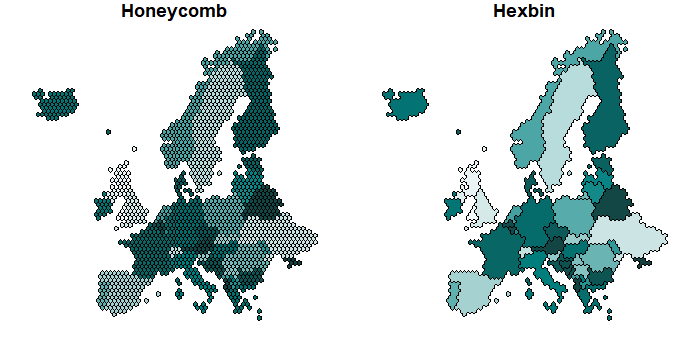
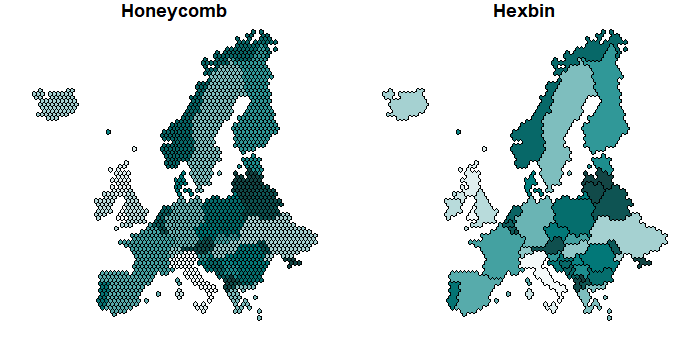
Drafting

diff --git a/_drafts/2019-05-30-Beautiful1.md b/_drafts/2019-05-30-Beautiful1.md
@@ -25,12 +25,12 @@ I also expanded it by grouping the grids and also producing dots over
 the geometries. So basically I produced 5 variations of the map:
 
 | Type          | Replacement | Grouped |
-| ------------- | :---------: | :------: |
-| **Fishnet**   |   Square    |      No |
-| **Puzzle**    |   Square    |     Yes |
-| **Honeycomb** |   Hexagon   |      No |
-| **Hexbin**    |   Hexagon   |     Yes |
-| **Pixel**     |     Dot     |      No |
+| ------------- | :---------: | :-----: |
+| **Fishnet**   |   Square    |   No    |
+| **Puzzle**    |   Square    |   Yes   |
+| **Honeycomb** |   Hexagon   |   No    |
+| **Hexbin**    |   Hexagon   |   Yes   |
+| **Pixel**     |     Dot     |   No    |
 
 ### Required R packages
 
@@ -124,8 +124,8 @@ Puzzle <- left_join(
 
 
 par(mfrow = c(1, 2), mar = c(1, 1, 1, 1))
-plot(st_geometry(Fishnet), col = mypal(nrow(Fishnet)), main = "Fishnet")
-plot(st_geometry(Puzzle), col = mypal(nrow(Fishnet)), main = "Puzzle")
+plot(st_geometry(Fishnet), col = mypal(nrow(Fishnet) / 2), main = "Fishnet")
+plot(st_geometry(Puzzle), col = mypal(nrow(Fishnet) / 2), main = "Puzzle")
 ```
 
 <img src="2019-05-30-Beautiful1_files/figure-gfm/20190530_squares-1.png" style="display: block; margin: auto;" />
@@ -185,8 +185,8 @@ Hexbin <- left_join(
 
 
 par(mfrow = c(1, 2), mar = c(1, 1, 1, 1))
-plot(st_geometry(Honeycomb), col = mypal(nrow(Honeycomb)), main = "Honeycomb")
-plot(st_geometry(Hexbin), col = mypal(nrow(Honeycomb)), main = "Hexbin")
+plot(st_geometry(Honeycomb), col = mypal(nrow(Honeycomb) / 2), main = "Honeycomb")
+plot(st_geometry(Hexbin), col = mypal(nrow(Honeycomb) / 2), main = "Hexbin")
 ```
 
 <img src="2019-05-30-Beautiful1_files/figure-gfm/20190530_hex-1.png" style="display: block; margin: auto;" />
